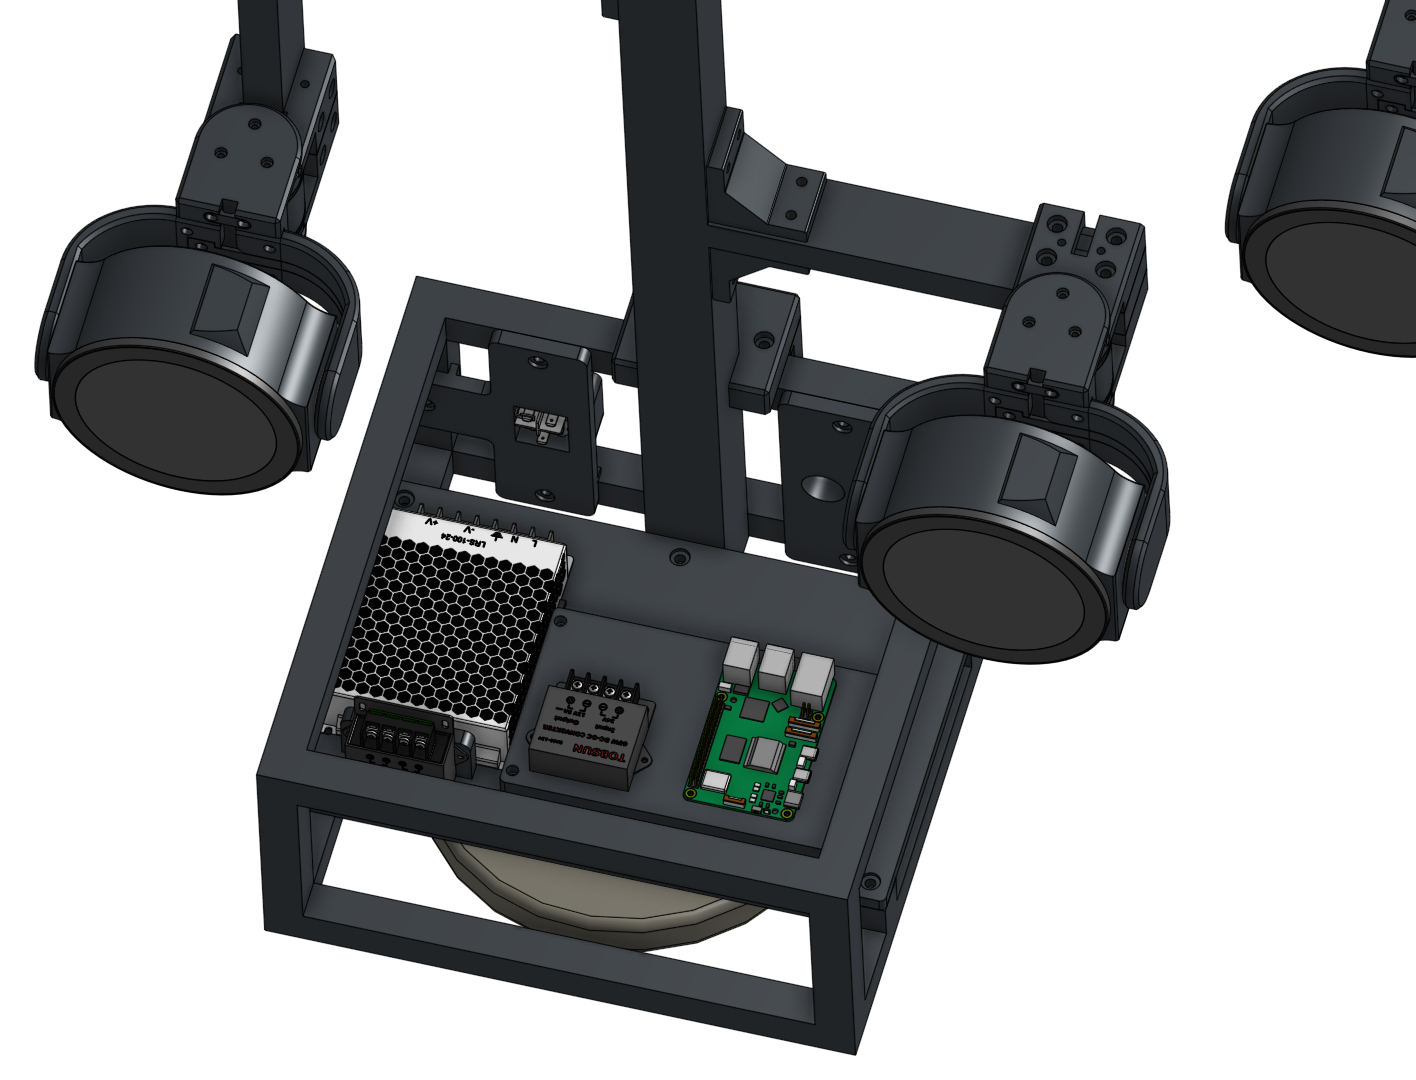
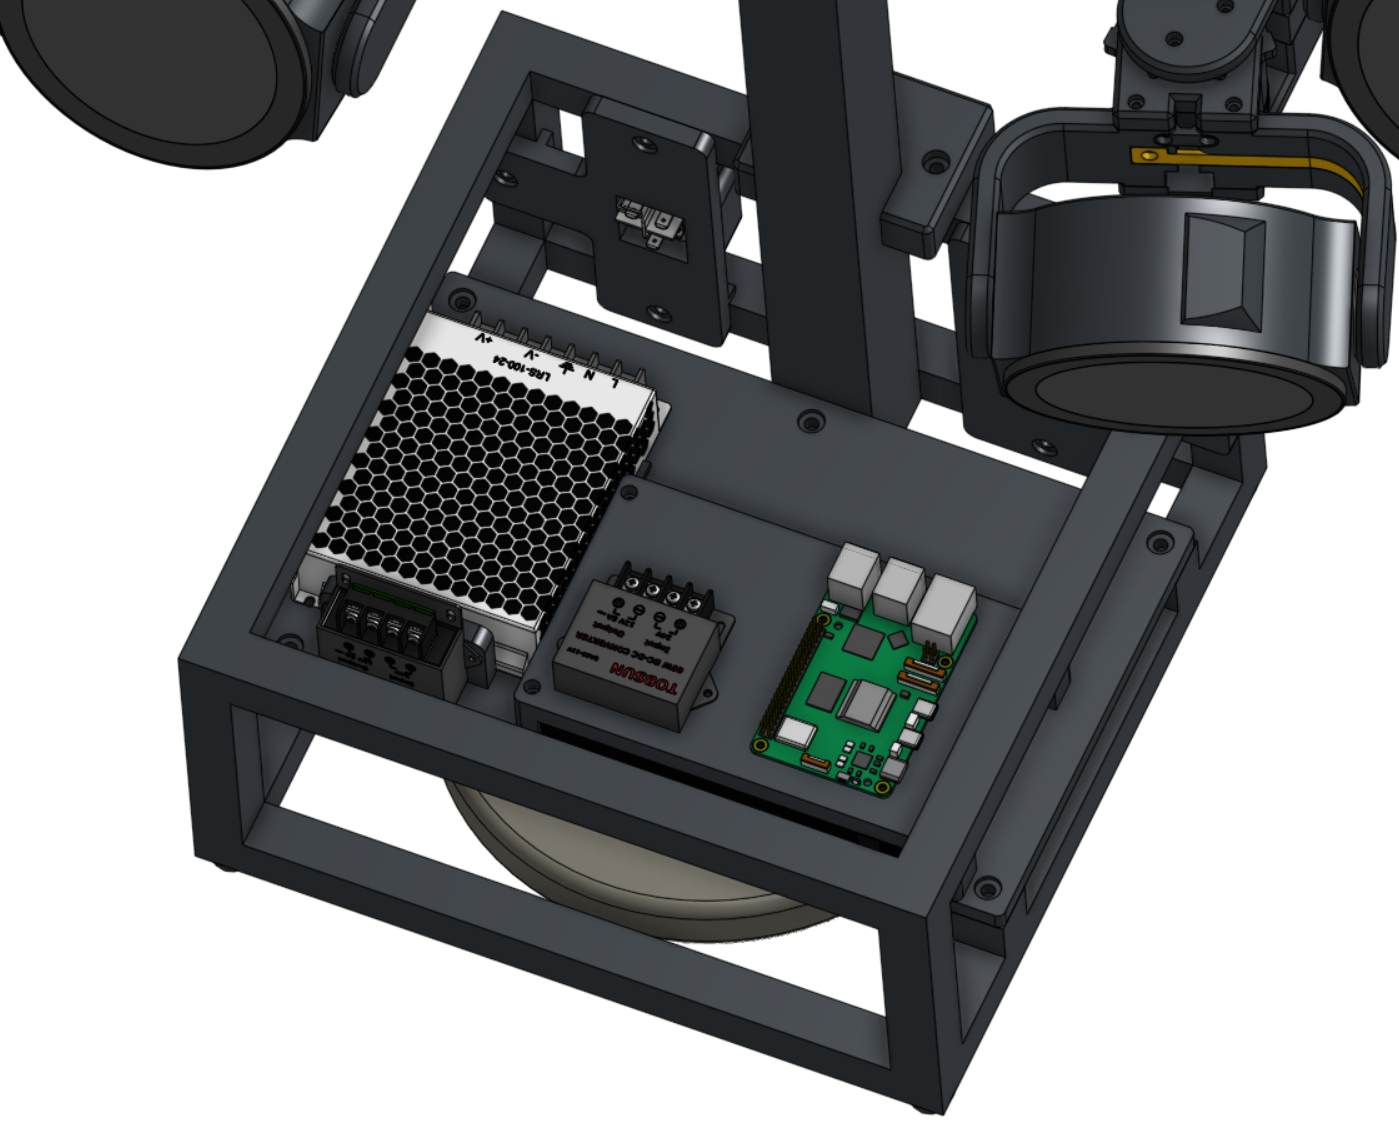
image update

diff --git a/mechanical/notes.md b/mechanical/notes.md
@@ -9,10 +9,11 @@ Frame: 2020 V-Slot (Euro Standard will work as well)
 
 ## Bolts
 
-Base motor frame, rear side: M3x12mm 6x
-Base motor frame, drive side: M2.5x12mm 6x
-Base motor drive: M3x20mm 3x
-Base motor bearing: M3x8mm 3x
+Motor to motor extension plate, bearing side: M3x12mm 6x
+Motor to motor extension plate, drive side: M2.5x12mm 6x
+Motor extention plate to u-channel, drive and bearing side: M3x12mm
+2040 motor bracket to motor spacer, motor drive: M3x20mm 3x
+2040 motor bracket to motor spacer, M3x8mm 3x
 
 Center wire clip: 2x M3x6mm
 
@@ -31,13 +32,13 @@ Controller:
 
 
 Base bracket to 2040
-    Horiztonal - 8x M5x20mm
-
+    Horiztonal - 8x M5x25mm
+    Vertical - 
 
 ## Eye
     External
         Vertical: 8x M5x15mm
-        Horizontal: 4x 
+        Horizontal:  
 
 
     Eye Wires:        
@@ -55,6 +56,16 @@ Base bracket to 2040
 
     Eye 2 starting 540mm wires
 
+## Sheath
+
+Braided sleeve 5mm inner diameter
+
+1: 
+2: 
+3: 280mm
+4: 
+5: 
+6: 
 
 ## Eye Positions
 
@@ -107,3 +118,22 @@ Motor for vertical orientation:
 
 current motor wire length: 170mm 
 
+
+
+---------------------------------------------------------------
+
+NEW NEW NEW
+
+U-Channel to extension brackets:
+    M3x12mm
+
+
+
+
+2040:
+    1x 1100.00mm
+    2x 440.00mm
+    2x 244.62mm
+    2x 191.50mm   
+    2x 137.81mm
+    Note: tolerance -+1mm is OK
